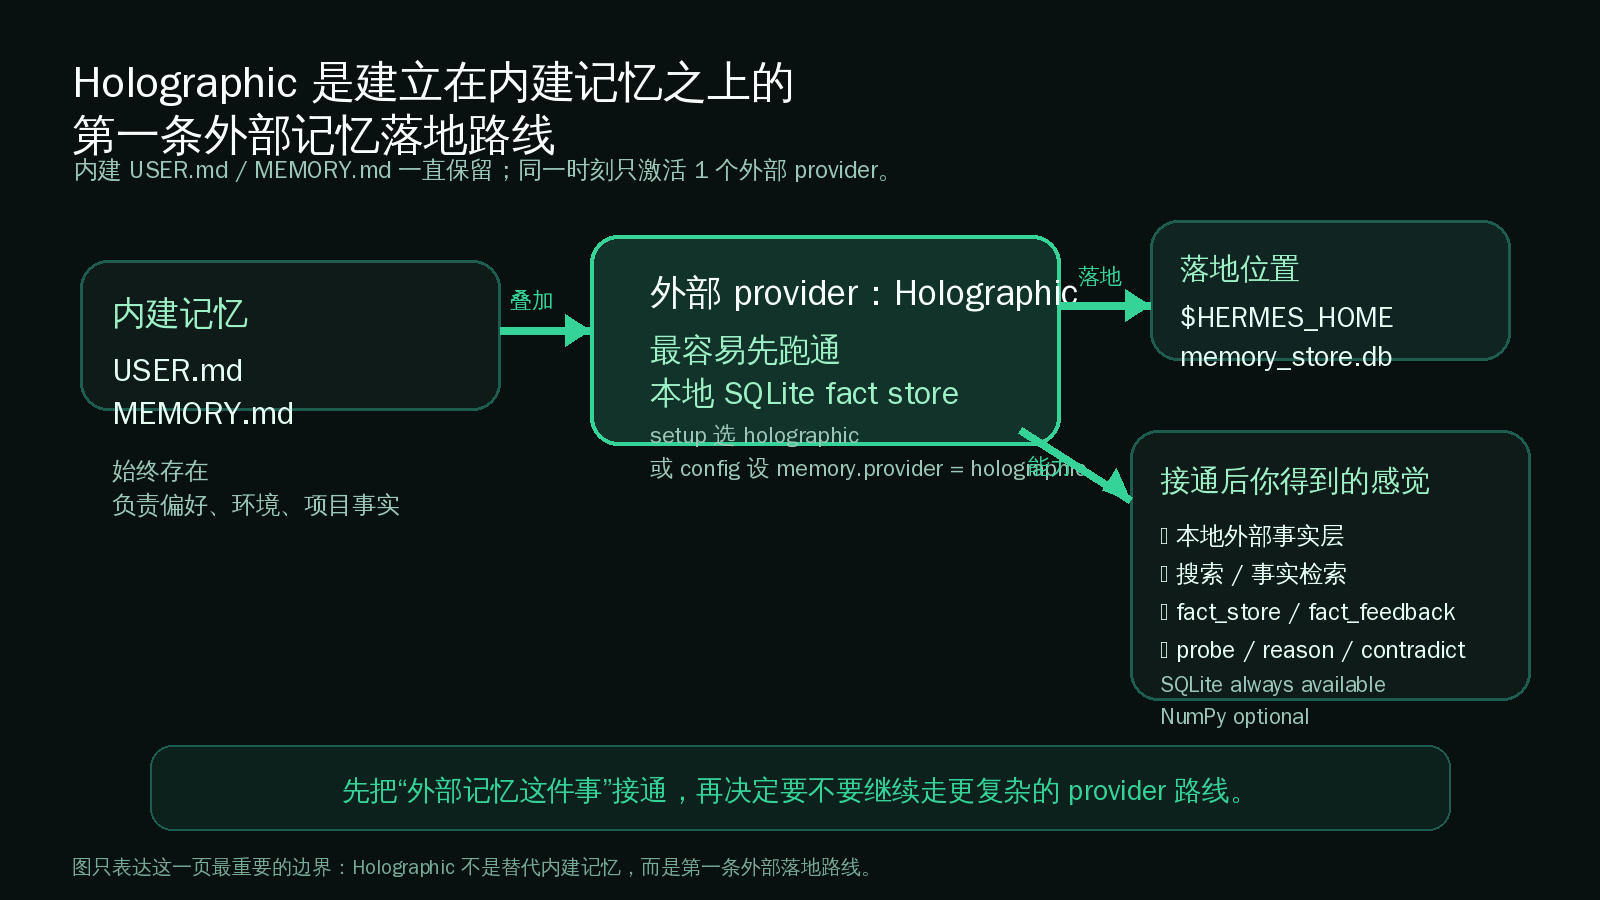
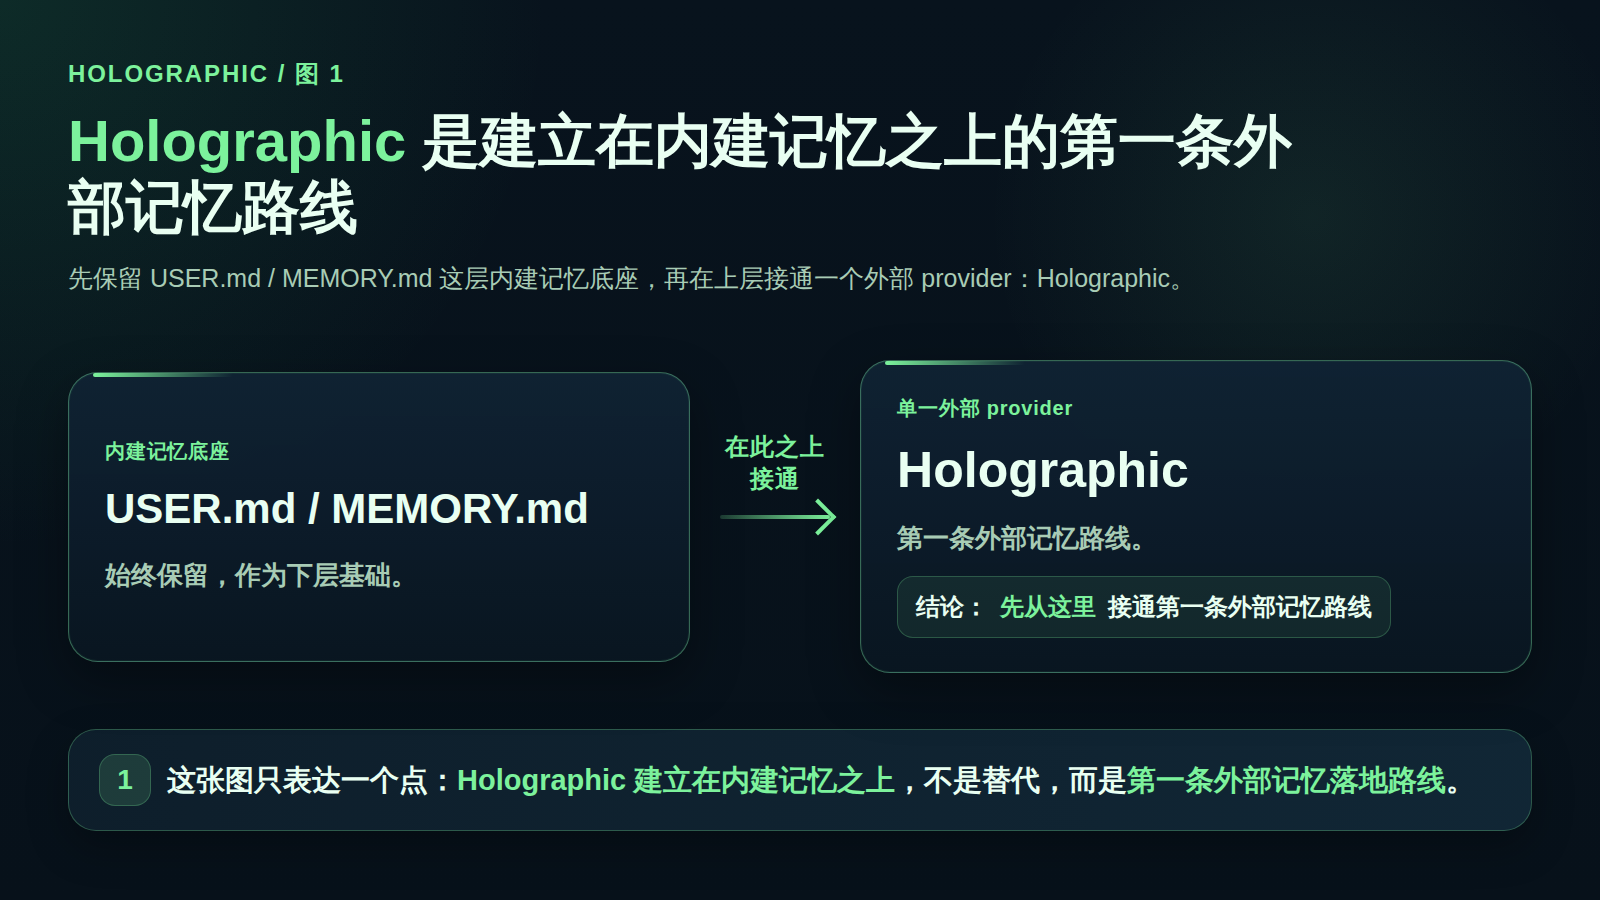
Refine holographic first-route figure

diff --git a/docs/start-here/build-your-own/memory-providers/holographic.md b/docs/start-here/build-your-own/memory-providers/holographic.md
@@ -3,7 +3,7 @@
 这一页只解决一件事：
 当你已经理解内建记忆的边界、又想先接通第一条最容易落地的外部记忆路线时，怎样用最短路径把 Holographic 跑起来。
 
-![Holographic 接入结构图：内建 USER.md 与 MEMORY.md 始终保留；Holographic 作为单一激活的外部 provider 叠加在上层，落地到本地 SQLite fact store，并提供搜索与事实工具能力](../../assets/rm2-5-memory-providers-02-holographic-first-route.png)
+![Holographic 接入结构图：内建 USER.md 与 MEMORY.md 作为底座始终保留；Holographic 建立在其上，作为第一条外部记忆路线先接通](../../assets/rm2-5-memory-providers-02-holographic-first-route.png)
 
 ---
 
